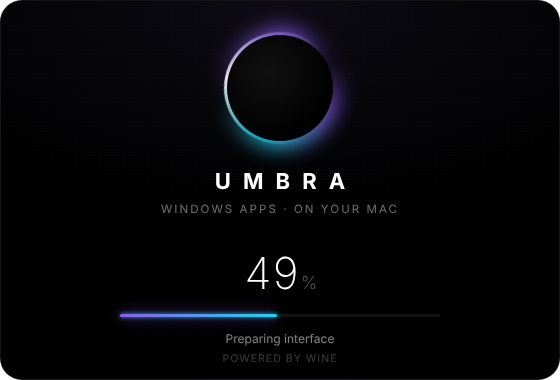
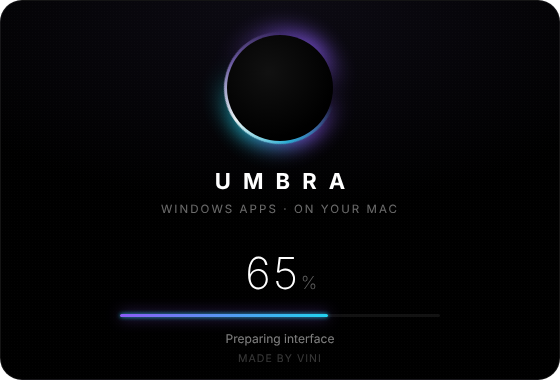
Add credits; loading screen says Made by Vini (v1.2.1)
- Credits card on the Engine page and a Credits section in the README
- The loading screen footer now reads MADE BY VINI

Claude-Session: https://claude.ai/code/session_01PXDtQqSmtQzFJRT36kCV7d

diff --git a/src/renderer/app.js b/src/renderer/app.js
@@ -315,8 +315,26 @@ function viewEngine() {
       ${toggle('metalHud', 'Metal Performance HUD', 'FPS & GPU overlay for Metal-rendered games.')}
       ${toggle('verboseLogs', 'Verbose logging', 'Show Wine warnings in the Console for debugging.')}
     </div>
+  </div>
+  <div class="card engine-card credits">
+    <h3>Credits</h3>
+    <div class="credit-hero"><div class="mark"><i></i></div><div><b>Umbra v${esc(S.version)}</b><span>Made by Vini</span></div></div>
+    <p class="muted">Umbra stands on the shoulders of these open-source projects:</p>
+    <ul class="credit-list">
+      ${CREDITS.map(([name, what, url]) => `<li><button class="credit-link" data-act="open-url" data-url="${url}">${esc(name)}</button><span>${esc(what)}</span></li>`).join('')}
+    </ul>
   </div>`;
 }
+
+const CREDITS = [
+  ['Wine', 'The compatibility layer that runs Windows programs', 'https://www.winehq.org'],
+  ['Gcenx macOS Wine builds', 'Prebuilt Wine for macOS that Umbra installs', 'https://github.com/Gcenx/macOS_Wine_builds'],
+  ['DXVK-macOS', 'DirectX 10/11 to Vulkan translation', 'https://github.com/Gcenx/DXVK-macOS'],
+  ['MoltenVK', 'Vulkan on Apple Metal', 'https://github.com/KhronosGroup/MoltenVK'],
+  ['Winetricks', 'Extra Windows components', 'https://github.com/Winetricks/winetricks'],
+  ['Electron', 'The app framework', 'https://www.electronjs.org'],
+  ['Inter', 'Typeface by Rasmus Andersson', 'https://rsms.me/inter/'],
+];
 
 // ---------- Console ----------
 function viewConsole() {
@@ -609,6 +627,7 @@ const actions = {
     if (names.length) go('library');
   },
   'open-update': () => call('open:external', S.update.url),
+  'open-url': (el) => call('open:external', el.dataset.url),
   toggle: (el) => call('settings:set', { [el.dataset.key]: !S.settings[el.dataset.key] }),
   'clear-logs': async () => { await call('logs:clear'); logs = []; paintLogs(); },
 };

diff --git a/src/renderer/styles.css b/src/renderer/styles.css
@@ -268,3 +268,16 @@ select.input { appearance: none; background-image: linear-gradient(45deg, transp
 .comp .comp-ok { display: flex; align-items: center; gap: 5px; color: var(--green); font-size: 12px; font-weight: 600; }
 .tag-exp { font-size: 10px !important; font-weight: 600; letter-spacing: .06em; text-transform: uppercase; color: var(--amber) !important; border: 1px solid rgba(251,191,36,.35); border-radius: 6px; padding: 1px 6px; }
 .pill.update { border-color: rgba(34,211,238,.35); background: linear-gradient(90deg, rgba(34,211,238,.1), transparent), var(--panel); }
+
+/* Credits */
+.credits { margin-top: 18px; }
+.credit-hero { display: flex; align-items: center; gap: 14px; margin-bottom: 14px; }
+.credit-hero .mark { width: 40px; height: 40px; }
+.credit-hero .mark i { inset: 3px 3px 3px 8px; }
+.credit-hero b { display: block; font-size: 16px; }
+.credit-hero span { background: var(--grad); -webkit-background-clip: text; background-clip: text; color: transparent; font-weight: 600; }
+.credit-list { list-style: none; display: grid; grid-template-columns: repeat(auto-fill, minmax(260px, 1fr)); gap: 8px 24px; margin-top: 12px; }
+.credit-list li { display: flex; flex-direction: column; padding: 8px 0; border-top: 1px solid var(--line); }
+.credit-list span { color: var(--faint); font-size: 12px; }
+.credit-link { text-align: left; font-weight: 600; color: var(--violet-2); }
+.credit-link:hover { text-decoration: underline; }

diff --git a/src/renderer/splash.html b/src/renderer/splash.html
@@ -49,7 +49,7 @@
     <div class="pct"><span id="n">1</span><small>%</small></div>
     <div class="bar"><div class="fill" id="fill"></div></div>
     <div class="status" id="status">Starting</div>
-    <div class="ver">POWERED BY WINE</div>
+    <div class="ver">MADE BY VINI</div>
   </div>
 <script src="splash.js"></script>
 </body>

diff --git a/README.md b/README.md
@@ -67,3 +67,17 @@ Each push to `main` runs a GitHub Actions job on a real Mac. That job installs t
 | `src/renderer/` | The UI (`index.html`, `app.js`, `styles.css`) and loading screen (`splash.html`) |
 
 Umbra data lives in `~/Library/Application Support/Umbra` (bottles, engine, library).
+
+## Credits
+
+**Made by Vini.**
+
+Umbra is built on these open-source projects:
+
+- [Wine](https://www.winehq.org): the compatibility layer that runs Windows programs
+- [Gcenx macOS Wine builds](https://github.com/Gcenx/macOS_Wine_builds): the prebuilt Wine for macOS that Umbra installs
+- [DXVK-macOS](https://github.com/Gcenx/DXVK-macOS): DirectX 10/11 → Vulkan translation
+- [MoltenVK](https://github.com/KhronosGroup/MoltenVK): Vulkan on Apple Metal
+- [Winetricks](https://github.com/Winetricks/winetricks): extra Windows components
+- [Electron](https://www.electronjs.org): the app framework
+- [Inter](https://rsms.me/inter/): typeface by Rasmus Andersson
